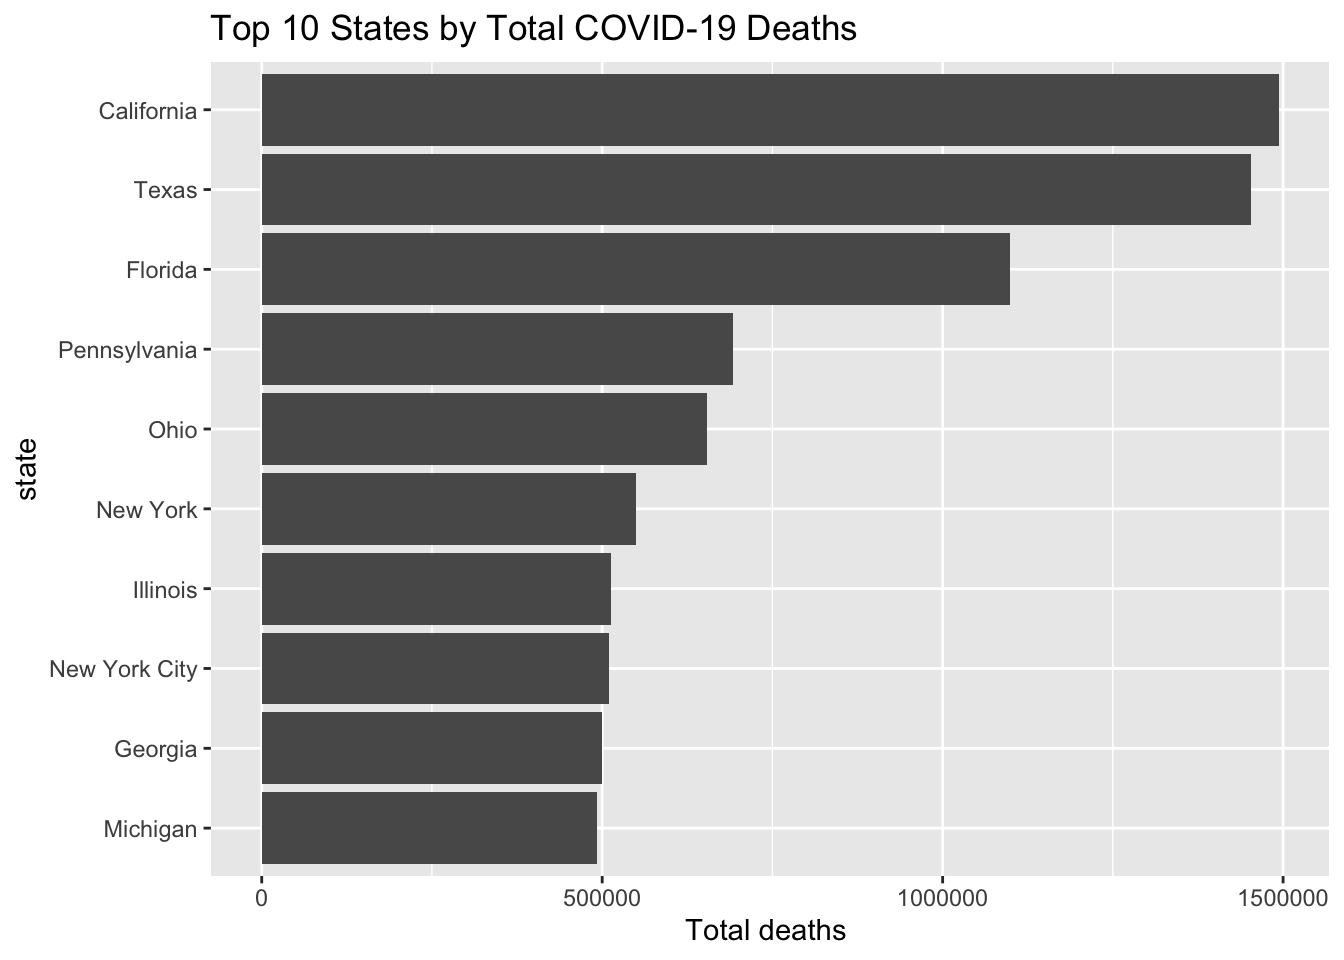
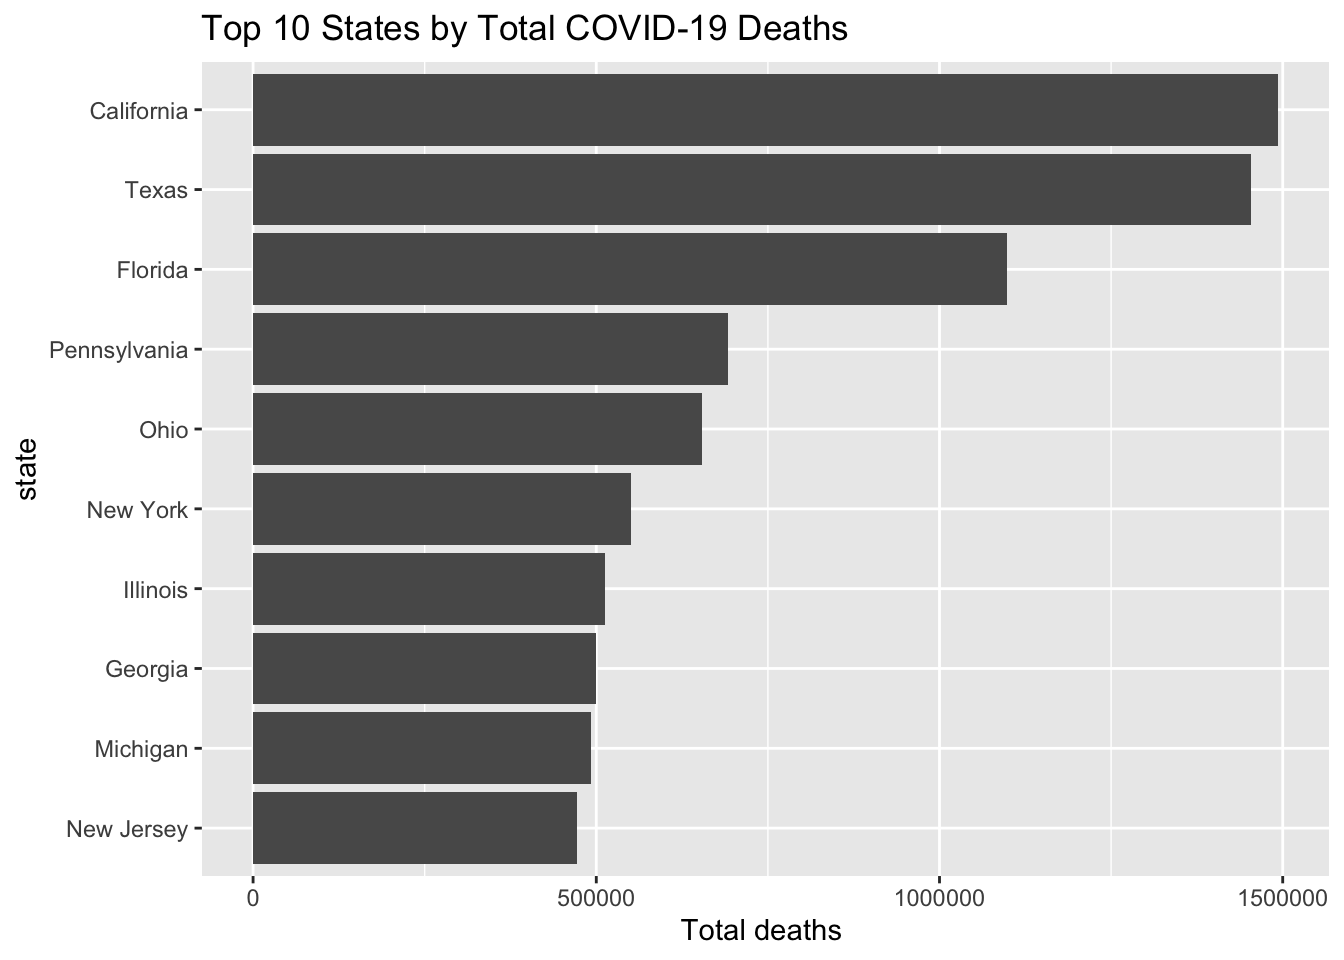
rev-4

diff --git a/pset-04-wrangling.html b/pset-04-wrangling.html
@@ -582,8 +582,8 @@ window.Quarto = {
 </ol>
 <div class="cell">
 <div class="code-copy-outer-scaffold"><div class="sourceCode cell-code" id="cb27"><pre class="sourceCode r code-with-copy"><code class="sourceCode r"><span id="cb27-1"><a href="#cb27-1" aria-hidden="true" tabindex="-1"></a>deaths <span class="sc">|&gt;</span></span>
-<span id="cb27-2"><a href="#cb27-2" aria-hidden="true" tabindex="-1"></a>  <span class="co"># exclude United States</span></span>
-<span id="cb27-3"><a href="#cb27-3" aria-hidden="true" tabindex="-1"></a>  <span class="fu">filter</span>(<span class="sc">!</span><span class="fu">is.na</span>(state), state <span class="sc">!=</span> <span class="st">"United States"</span>)<span class="sc">|&gt;</span></span>
+<span id="cb27-2"><a href="#cb27-2" aria-hidden="true" tabindex="-1"></a>  <span class="co"># exclude United States and New York City which are not states </span></span>
+<span id="cb27-3"><a href="#cb27-3" aria-hidden="true" tabindex="-1"></a>  <span class="fu">filter</span>(<span class="sc">!</span><span class="fu">is.na</span>(state), state <span class="sc">!=</span> <span class="st">"United States"</span>, state <span class="sc">!=</span> <span class="st">"New York City"</span>)<span class="sc">|&gt;</span></span>
 <span id="cb27-4"><a href="#cb27-4" aria-hidden="true" tabindex="-1"></a>  <span class="fu">group_by</span>(state) <span class="sc">|&gt;</span></span>
 <span id="cb27-5"><a href="#cb27-5" aria-hidden="true" tabindex="-1"></a>  <span class="fu">summarise</span>(<span class="at">tot_deaths =</span> <span class="fu">sum</span>(deaths, <span class="at">na.rm =</span> <span class="cn">TRUE</span>), </span>
 <span id="cb27-6"><a href="#cb27-6" aria-hidden="true" tabindex="-1"></a>            <span class="at">.groups =</span> <span class="st">"drop"</span>) <span class="sc">|&gt;</span></span>
